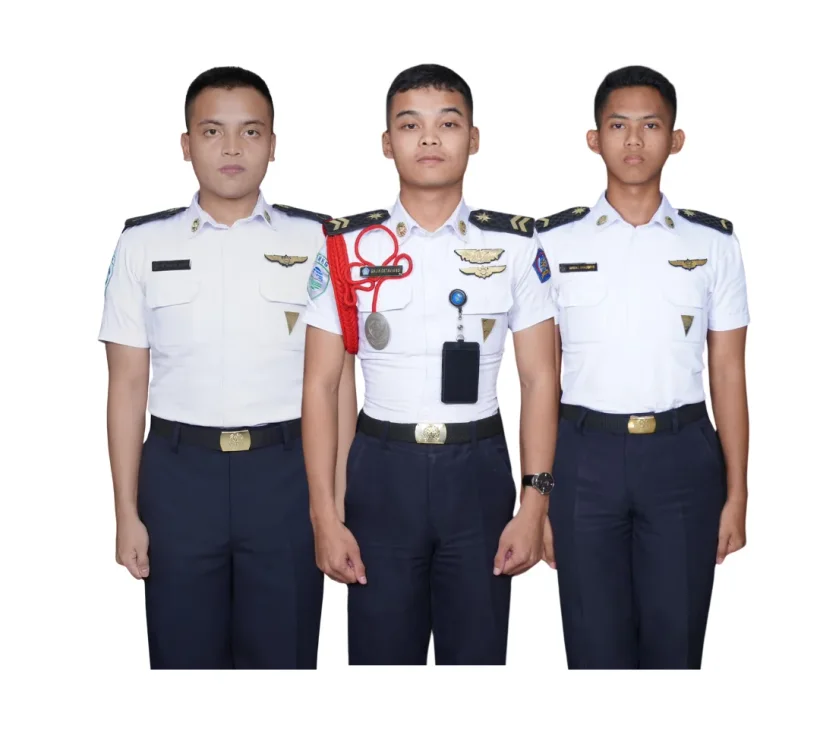
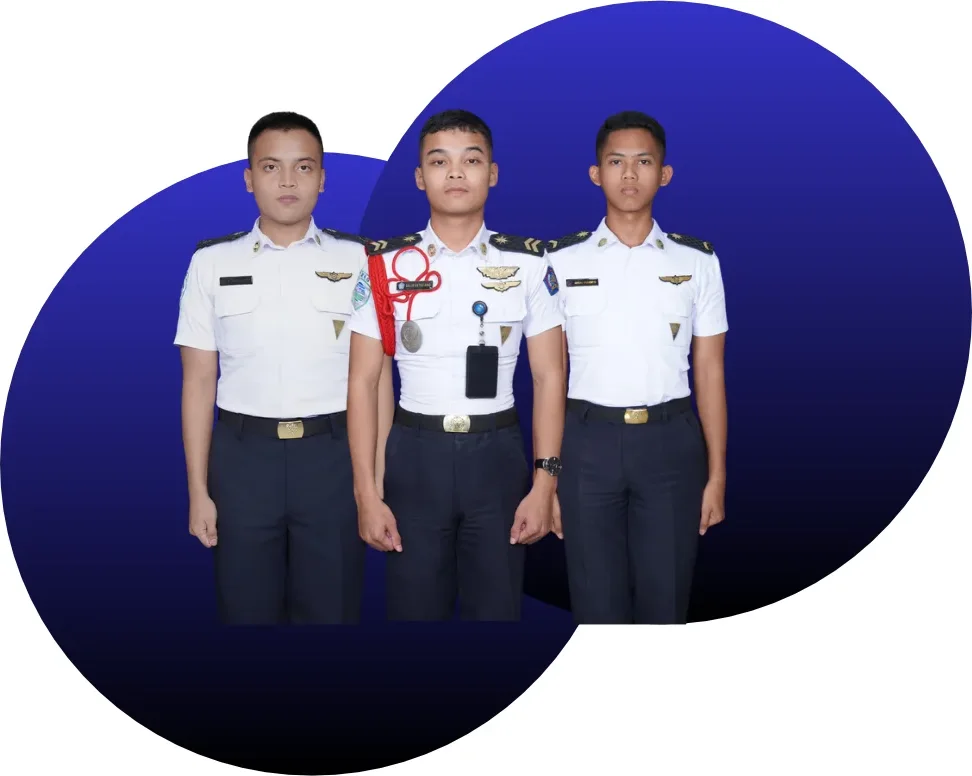
style(landing): simplify supplied hero artwork

diff --git a/src/components/landing/HeroSection.tsx b/src/components/landing/HeroSection.tsx
@@ -73,13 +73,10 @@ export const HeroSection = memo(function HeroSection({
             {/* Mobile Image */}
             <motion.div
               variants={reduceMotion ? undefined : itemVariants}
-              className="lg:hidden relative mb-8 max-w-[300px] mx-auto"
+              className="lg:hidden relative mb-8 max-w-[360px] mx-auto"
             >
-              <div className="relative aspect-[4/4.4] overflow-hidden bg-gradient-to-br from-blue-500 via-blue-600 to-blue-800">
-                <div className="absolute inset-y-0 right-[-8%] w-[76%] bg-gradient-to-br from-blue-500 via-blue-600 to-blue-800 [clip-path:polygon(18%_0,100%_0,82%_100%,0_100%)]" />
-                <div className="absolute inset-y-0 right-[-8%] w-[76%] border-x border-white/15 [clip-path:polygon(18%_0,100%_0,82%_100%,0_100%)]" />
-                <div className="absolute inset-x-[7%] bottom-0 h-[82%] bg-white [clip-path:polygon(22%_0,100%_0,100%_100%,0_100%)]" />
-                <img src="/hero-squad-blue.webp" alt="Tiga siswa sekolah kedinasan Future Bimbel Kedinasan" className="absolute z-10 bottom-0 right-[-1%] h-[84%] w-[94%] object-contain object-bottom [clip-path:polygon(22%_0,100%_0,100%_100%,0_100%)]" loading="eager" />
+              <div className="relative aspect-[1.25] overflow-hidden bg-white">
+                <img src="/hero-squad-blue.webp" alt="Tiga siswa sekolah kedinasan Future Bimbel Kedinasan" className="absolute inset-0 w-full h-full object-contain" loading="eager" />
               </div>
             </motion.div>
 
@@ -134,9 +131,8 @@ export const HeroSection = memo(function HeroSection({
             transition={{ duration: 0.9, ease: "easeOut", delay: 0.25 }}
             className="hidden lg:block relative self-stretch min-h-[560px]"
           >
-            <div className="absolute inset-0 flex items-end justify-center overflow-hidden">
-              <div className="absolute inset-y-[3%] right-0 w-[82%] bg-gradient-to-br from-blue-500 via-blue-600 to-blue-800 [clip-path:polygon(16%_0,100%_0,100%_100%,0_100%)]" />
-              <img src="/hero-squad-blue.webp" alt="Tiga siswa sekolah kedinasan Future Bimbel Kedinasan" className="absolute z-10 bottom-[3%] right-[-2%] h-[94%] w-[90%] object-contain object-bottom mix-blend-multiply [clip-path:polygon(18%_0,100%_0,100%_100%,0_100%)]" loading="eager" />
+            <div className="absolute inset-0 flex items-center justify-center overflow-hidden">
+              <img src="/hero-squad-blue.webp" alt="Tiga siswa sekolah kedinasan Future Bimbel Kedinasan" className="w-full h-full object-contain object-center" loading="eager" />
               <div className="absolute z-20 left-[4%] bottom-[3%] bg-white border-t border-r border-blue-100 px-5 py-4 max-w-[250px]">
                 <p className="text-[10px] uppercase tracking-[0.16em] text-blue-700 mb-1">Future Bimbel Kedinasan</p>
                 <p className="text-sm font-semibold text-[#102b54]">Latihan SKD. Evaluasi. Ulangi.</p>
